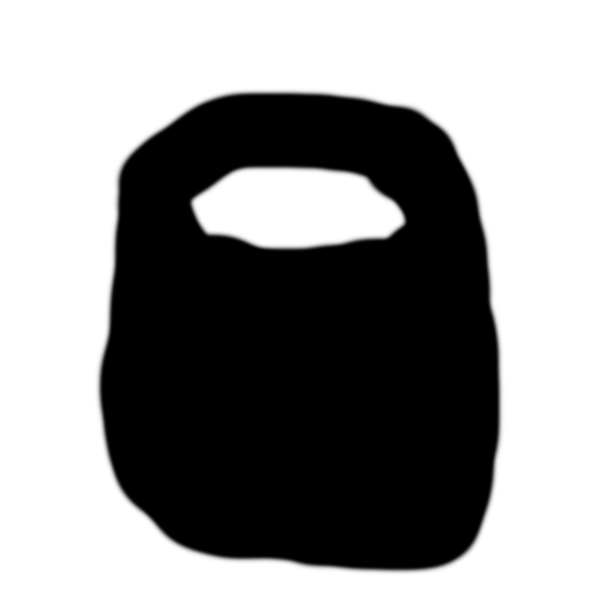
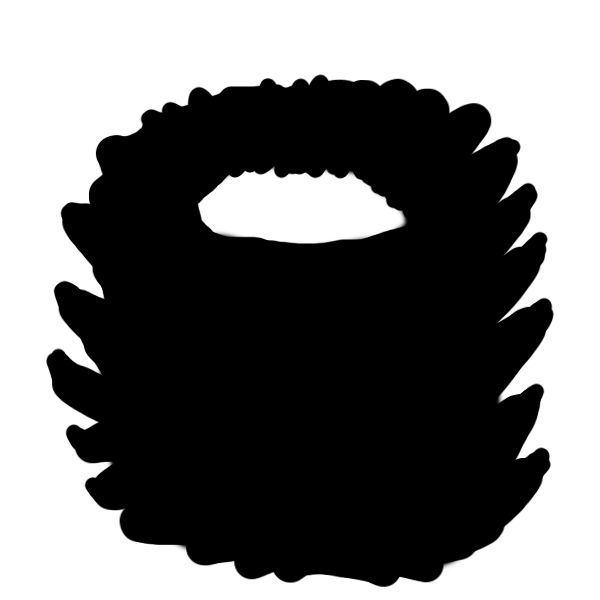
Retrieve face information

Changed region(s): [[0.06, 0.12, 0.93, 0.99], [0.3, 0.27, 0.69, 0.42]]

diff --git a/greenyfy.go b/greenyfy.go
@@ -15,6 +15,8 @@ import (
     
     "appengine"
     "appengine/urlfetch"
+    
+    "encoding/json"
 )
 
 func init() {
@@ -55,6 +57,8 @@ func handler(w http.ResponseWriter, r *http.Request) {
         img = resize.Resize(1024, 0, img, resize.Lanczos3)
     }
     
+	findFaces(c, &img)
+	
     bnds = img.Bounds()
     
     brd := beard(c)
@@ -68,7 +72,7 @@ func handler(w http.ResponseWriter, r *http.Request) {
     draw.Draw(m, bnds, img, image.Point{0,0}, draw.Src)
     draw.Draw(m, rt, brd, sr.Min, draw.Over)
     
-    var img_out image.Image = m
+    img_out := image.Image(m)
     
     writeImage(w, &img_out)
 }
@@ -102,3 +106,203 @@ func beard(c appengine.Context) image.Image {
     
     return img
 }
+
+func findFaces(c appengine.Context, img *image.Image) {
+    client := urlfetch.Client(c)
+    endpoint := "https://api.projectoxford.ai/face/v0/detections?analyzesFaceLandmarks=true"
+    bodyType := "application/octet-stream"
+    
+    buffer := new(bytes.Buffer)
+    if err := jpeg.Encode(buffer, *img, nil); err != nil {
+        log.Println("unable to encode image.")
+    }
+    
+    req, err := http.NewRequest("POST", endpoint, buffer)
+    req.Header.Add("Content-Type", bodyType)
+    req.Header.Add("Ocp-Apim-Subscription-Key", "b8fbe571719248759e2d2badff0d1d6f")
+    resp, err := client.Do(req)
+
+    if err != nil {
+        log.Println("Failed to get beard url")
+    }
+    	
+    defer resp.Body.Close()
+
+	obj := make([]Face, 1)
+	dec := json.NewDecoder(resp.Body)
+	dec.Decode(&obj)
+	
+	log.Println("Obj: ", obj)
+	log.Println("Pupil: ", obj[0].Landmarks.PupilLeft)
+}
+
+type Face struct {
+    Id   string `json:"faceId"`
+	Rectangle FaceRectangle `json:"faceRectangle"`
+    Landmarks FaceLandmarks `json:"faceLandmarks"`
+}
+
+type FaceLandmarks struct {
+	PupilLeft Point
+	PupilRight Point
+    NoseTip Point
+    MouthLeft Point
+    MouthRight Point
+    EyebrowLeftOuter Point
+    EyebrowLeftInner Point
+    EyeLeftOuter Point
+    EyeLeftTop Point
+    EyeLeftBottom Point
+    EyeLeftInner Point
+    EyebrowRightInner Point
+    EyebrowRightOuter Point
+    EyeRightInner Point
+    EyeRightTop Point
+    EyeRightBottom Point
+    EyeRightOuter Point
+    NoseRootLeft Point
+    NoseRootRight Point
+    NoseLeftAlarTop Point
+    NoseRightAlarTop Point
+    NoseLeftAlarOutTip Point
+    NoseRightAlarOutTip Point
+    UpperLipTop Point
+    UpperLipBottom Point
+    UnderLipTop Point
+    UnderLipBottom Point
+}
+
+type Point struct {
+	X float32
+	Y float32
+}
+
+type FaceRectangle struct {
+	Top float32
+	Left float32
+	Width float32
+	Height float32
+}
+
+/*
+[{
+    "faceId": "c2d9a455-c894-4256-a2a7-01924307b94b",
+    "faceRectangle": {
+        "top": 0,
+        "left": 211,
+        "width": 185,
+        "height": 181
+    },
+    "faceLandmarks": {
+        "pupilLeft": {
+            "x": 262.1,
+            "y": 40.8
+        },
+        "pupilRight": {
+            "x": 344.2,
+            "y": 44.6
+        },
+        "noseTip": {
+            "x": 306.5,
+            "y": 94.1
+        },
+        "mouthLeft": {
+            "x": 272.0,
+            "y": 133.5
+        },
+        "mouthRight": {
+            "x": 330.5,
+            "y": 133.8
+        },
+        "eyebrowLeftOuter": {
+            "x": 236.0,
+            "y": 24.1
+        },
+        "eyebrowLeftInner": {
+            "x": 290.9,
+            "y": 33.3
+        },
+        "eyeLeftOuter": {
+            "x": 247.2,
+            "y": 43.5
+        },
+        "eyeLeftTop": {
+            "x": 260.6,
+            "y": 35.4
+        },
+        "eyeLeftBottom": {
+            "x": 260.7,
+            "y": 51.1
+        },
+        "eyeLeftInner": {
+            "x": 275.3,
+            "y": 44.9
+        },
+        "eyebrowRightInner": {
+            "x": 322.3,
+            "y": 33.0
+        },
+        "eyebrowRightOuter": {
+            "x": 372.7,
+            "y": 30.9
+        },
+        "eyeRightInner": {
+            "x": 330.3,
+            "y": 47.4
+        },
+        "eyeRightTop": {
+            "x": 345.9,
+            "y": 39.0
+        },
+        "eyeRightBottom": {
+            "x": 346.0,
+            "y": 54.1
+        },
+        "eyeRightOuter": {
+            "x": 360.3,
+            "y": 47.9
+        },
+        "noseRootLeft": {
+            "x": 294.7,
+            "y": 48.1
+        },
+        "noseRootRight": {
+            "x": 317.1,
+            "y": 48.9
+        },
+        "noseLeftAlarTop": {
+            "x": 288.7,
+            "y": 80.2
+        },
+        "noseRightAlarTop": {
+            "x": 320.5,
+            "y": 83.3
+        },
+        "noseLeftAlarOutTip": {
+            "x": 280.9,
+            "y": 96.0
+        },
+        "noseRightAlarOutTip": {
+            "x": 323.9,
+            "y": 100.0
+        },
+        "upperLipTop": {
+            "x": 303.0,
+            "y": 123.5
+        },
+        "upperLipBottom": {
+            "x": 302.9,
+            "y": 130.3
+        },
+        "underLipTop": {
+            "x": 306.0,
+            "y": 138.1
+        },
+        "underLipBottom": {
+            "x": 304.1,
+            "y": 149.6
+        }
+    },
+    "attributes": {}
+}]
+*/
